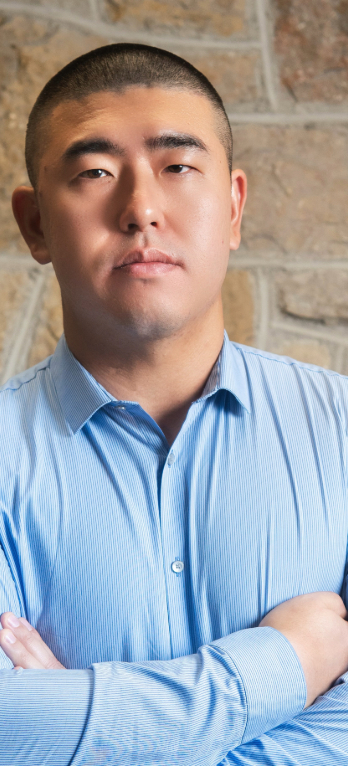
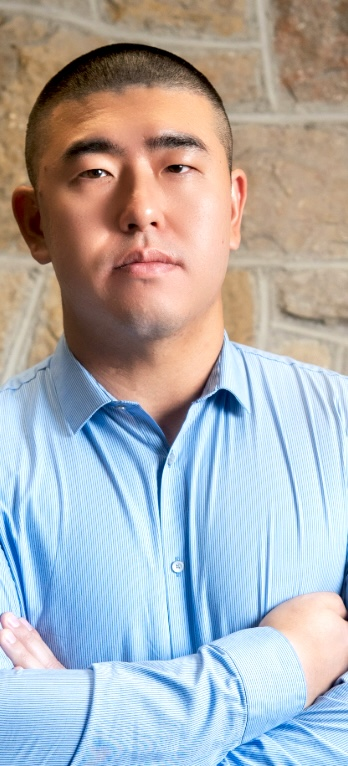
add mobile hero styles

diff --git a/index.html b/index.html
@@ -100,18 +100,21 @@
 
     <section class="hero">
       <div class="wrapper hero_wrapper">
-        <picture class="hero_image">
+        <picture>
           <source 
             media="(min-width: 62.5em)" 
-            srcset="assets/images/image-profile-desktop-peterJiang.webp"
+            srcset="assets/images/image-profile-desktop-peterJiang_blackwhite.webp"
           />
           <source 
             media="(min-width: 37.5em)" 
-            srcset="assets/images/image-profile-tablet-peterJiang.webp"
+            srcset="assets/images/image-profile-tablet-peterJiang_blackwhite.webp"
           />
-          <img 
-            src="assets/images/image-profile-mobile-peterJiang.webp" 
+          <img
+            class="hero_image" 
+            src="assets/images/image-profile-mobile-peterJiang_blackwhite.webp" 
             alt="picture of Peter Jiang"
+            width="174"
+            height="383"
           />
         </picture>
 

diff --git a/style.css b/style.css
@@ -35,6 +35,18 @@ body {
     line-height: 1.56;
 }
 
+h1, h2, h3, p {
+    margin-top: 0;
+}
+
+h1, h2, h3 {
+    line-height: 1;
+}
+
+p {
+    line-height: 1.3;
+}
+
 a {
     transition: color var(--transition);
 }
@@ -58,6 +70,7 @@ a:hover {
     margin-inline: auto;
 }
 
+/* 600px */
 @media (min-width: 37.5em) {
     .wrapper {
         width: calc(100% - 3.75rem);
@@ -110,5 +123,37 @@ a:hover {
         flex: 1;
         margin-inline-end: auto;
     }
+}
+
+/* HERO */
+.hero {
+
+}
+
+.hero_wrapper {
+    position: relative;
+}
+
+.hero_image {
+    position: absolute;
+    left: 50%;
+    top: 0;
+    translate: -50%;
+    outline: 2px solid lime;
+    margin-inline: auto;
+    display: block;
+}
+
+.hero_text {
+    position: relative;
+    text-align: center;
+    top: 335px;
+}
+
+.hero_description {
+
+}
+
+.hero_contact {
 
 }
